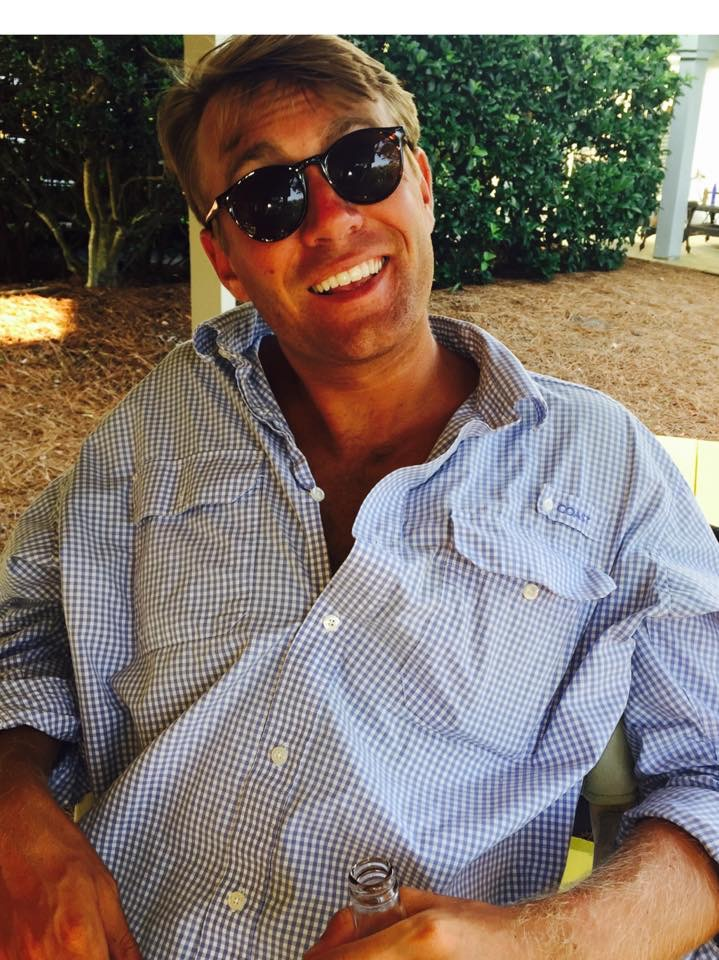
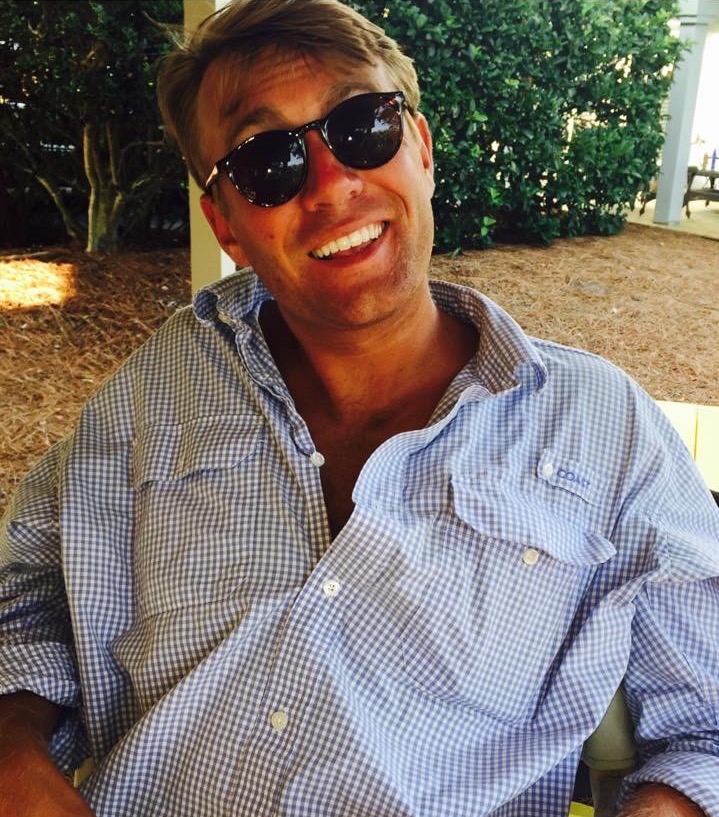
Initial tacklbox complete.

diff --git a/Main.html b/Main.html
@@ -1,40 +1,109 @@
 <!DOCTYPE HTML>
 
 <html>
+  <head>
+    <meta charset:"utf-8">
+    <link href="styles.css" rel="stylesheet" title="Default Style">
+    <!-- google fonts -->
+    <link href="https://fonts.googleapis.com/css?family=Muli" rel="stylesheet">
+    <title>Hacksis.it</title>
+  </head>
 
-<head>
-  <meta charset:"utf-8">
-  <link href="styles.css" rel="stylesheet" title="Default Style">
-  <title>Hacksis.it</title>
-</head>
+  <body>
+    <header id="header">
+    </header>
+    <div id="about">
+        <span>
+          <img id="soloPic" src="/Users/christianhaasis/Documents/Projects/HacksisPortfolio/Images/aboutPic.JPG" alt="Picture of me sitting on a porch">
+        <span>
+        <p id="aboutPara">
+          Lorem ipsum dolor sit amet, consectetur adipiscing elit, sed do eiusmod tempor incididunt ut labore et dolore magna aliqua. Ut enim ad minim veniam, quis nostrud exercitation ullamco laboris nisi ut aliquip ex ea commodo consequat. Duis aute irure dolor in reprehenderit in voluptate velit esse cillum dolore eu fugiat nulla pariatur. Excepteur sint occaecat cupidatat non proident, sunt in culpa qui officia deserunt mollit anim id est laborum. Lorem ipsum dolor sit amet, consectetur adipiscing elit, sed do eiusmod tempor incididunt ut labore et dolore magna aliqua. Ut enim ad minim veniam, quis nostrud exercitation ullamco laboris nisi ut aliquip ex ea commodo consequat. Duis aute irure dolor in reprehenderit in voluptate velit esse cillum dolore eu fugiat nulla pariatur. Excepteur sint occaecat cupidatat non proident, sunt in culpa qui officia deserunt mollit anim id est laborum.
+        </p>
+    </div>
 
-<body>
-  <header id="header">
+    <div id="tackleBox">
+      <h1> Tackle Box </h1>
+      <div id="luresShelf">
+        <ul id="luresList">
+          <li>
+            <div class="lureContainer">
+              <div id="javascript" class="lure">
+                <img class="lureLogo" src="https://codercamps.co/Img/javascript-logo.png" alt="Javascript logo">
+              </div>
+            </div>
+          </li>
+          <li>
+            <div class="lureContainer">
+              <div id="html" class="lure">
+                <img class="lureLogo" src="https://cdn.iconscout.com/public/images/icon/free/png-512/html5-logo-341eda6a9876c66d-512x512.png" alt="HTML 5 logo">
+              </div>
+            </div>
+          </li>
+          <li>
+            <div class="lureContainer">
+              <div id="css" class="lure">
+                  <img class="lureLogo" src="https://www.shareicon.net/download/2016/08/01/639873_internet.svg" alt="CSS 3 logo">
+              </div>
+            </div>
+          </li>
+          <li>
+            <div class="lureContainer">
+              <div id="react" class="lure">
+                  <img class="lureLogo" src="https://upload.wikimedia.org/wikipedia/commons/thumb/a/a7/React-icon.svg/1280px-React-icon.svg.png" alt="React logo">
+              </div>
+            </div>
+          </li>
+          <li>
+            <div class="lureContainer">
+              <div id="redux" class="lure">
+                <img class="lureLogo" src="https://raw.githubusercontent.com/reactjs/redux/master/logo/logo.png" alt="Redux logo">
+              </div>
+            </div>
+          </li>
+          <li>
+            <div class="lureContainer">
+              <div id="node" class="lure">
+                <img class="lureLogo"
+                src="https://seeklogo.com/images/N/nodejs-logo-FBE122E377-seeklogo.com.png" alt="Node.js logo">
+              </div>
+            </div>
+          </li>
+          <li>
+            <div class="lureContainer">
+              <div id="git" class="lure">
+                <img class="lureLogo"
+                src="https://git-for-windows.github.io/img/git_logo.png" alt="Git logo">
+              </div>
+            </div>
+          </li>
+          <li>
+            <div class="lureContainer">
+              <div id="npm" class="lure">
+                <img class="lureLogo"
+                src="https://upload.wikimedia.org/wikipedia/commons/thumb/d/db/Npm-logo.svg/2000px-Npm-logo.svg.png" alt="npm logo">
+              </div>
+            </div>
+          </li>
+          <li>
+            <div class="lureContainer">
+              <div id="postgresql" class="lure">
+                <img class="lureLogo"
+                src="https://upload.wikimedia.org/wikipedia/commons/thumb/2/29/Postgresql_elephant.svg/993px-Postgresql_elephant.svg.png" alt="postgreSQL logo">
+              </div>
+            </div>
+          </li>
+      </div>
+    </div>
 
 
-  </header>
-  <div>
-      <h1> About </h1>
-      <img id="soloPic" src="/Users/christianhaasis/Documents/Projects/HacksisPortfolio/Images/aboutPic.JPG" alt="Picture of me sitting on a porch">
+    <div id="projects">
+      <h1> Projects </h1>
+    </div>
 
-      <p>
-        Lorem ipsum dolor sit amet, consectetur adipiscing elit, sed do eiusmod tempor incididunt ut labore et dolore magna aliqua. Ut enim ad minim veniam, quis nostrud exercitation ullamco laboris nisi ut aliquip ex ea commodo consequat. Duis aute irure dolor in reprehenderit in voluptate velit esse cillum dolore eu fugiat nulla pariatur. Excepteur sint occaecat cupidatat non proident, sunt in culpa qui officia deserunt mollit anim id est laborum.
-      </p>
+    <div>
+      <h1> contact </h1>
+    </div>
 
-  </div>
-  <div>
-    <h1> Tackle Box </h1>
-  </div>
-
-  <div>
-  </div>
-    <h1> Projects </h1>
-  <div>
-    <h1> contact </h1>
-  </div>
-
-
-</body>
-
+  </body>
 
 </html>

diff --git a/styles.css b/styles.css
@@ -1,11 +1,135 @@
+
 #header {
+  width: 100%;
   height: 500px;
   background-image: url("https://phallphotos.files.wordpress.com/2013/08/1221.jpg");
   background-size: cover;
   background-position:top;
 }
 
+body {
+  font-family: 'Muli', sans-serif;
+}
+/*********************************************************/
+  /* About */
+/********************************************************/
+
+#about {
+  display: flex;
+  flex-wrap:wrap;
+  flex-direction: row;
+  width: 90%;
+  margin-left: 5%;
+}
+
+#aboutPara {
+  font-size: 1.5;
+}
+
 #soloPic {
+  position:relative;
+  bottom: 50px;
+  float:left;
+  margin: 5px;
+  width: 250px;
+  border-radius: 20px;
+  box-shadow: 3px 3px 4px 5px rgba(0, 0, 0, 0.44);
+  }
+
+/*********************************************************/
+  /* Toolbox */
+/********************************************************/
+#tackleBox{
+  width: 90%;
+  margin-left: 5%;
+}
+
+#luresShelf {
+  height: 500px;
+}
+
+#luresList{
+  display: flex;
+  flex-wrap: wrap;
+  list-style: none;
+}
+
+.lureContainer {
+  display: flex;
+  justify-content: center;
+  align-items: center;
+  background-color: rgb(45, 74, 43);
+  border: medium solid black;
   width: 200px;
-  float: left;
+  height: 300px;
+}
+
+.lure {
+  display: flex;
+  justify-content: center;
+  align-items: center;
+  width: 100px;
+  height: 250px;
+  border: 2px solid black;
+  border-radius: 50% 50% 50% 50%;
+}
+
+.lureLogo {
+  width: 80%;
+}
+
+#javascript {
+  background-color: rgb(235,203,90);
+  border-color: rgb(220,200,114);
+}
+
+#html {
+  background-color: rgb(239,117,47);
+  border-color: rgb(215,90,38);
+}
+
+#css {
+  background-color: rgb(80,155,209);
+  border-color: rgb(46,99,170);
+}
+
+#react {
+  background-color: rgb(42,44,46);
+  border-color: rgb(181,227,243);
+}
+
+#redux {
+  background-color: rgb(34,34,34);
+  border-color: rgb(110,79,181);
+}
+
+#node {
+  background-color: rgb(63,63,53);
+  border-color: rgb(102,155,79);
+}
+
+#git {
+  background-color: rgb(96, 38, 26);
+  border-color: rgb(224,92,64);
+}
+
+#npm {
+  background-color: white;
+  border-color: rgb(189,68,62);
+}
+
+#postgresql {
+  background-color: rgb(148, 173, 195);
+  border-color: rgb(61,103,141);
+}
+
+
+/*********************************************************/
+  /* Projects */
+/********************************************************/
+
+#projects {
+  height: 1000px;
+  background-image: url("http://24066-presscdn.pagely.netdna-cdn.com/wp-content/uploads/2017/08/11521-Charleston-Harbor-and-Approaches.jpg");
+  background-position:center;
 }
